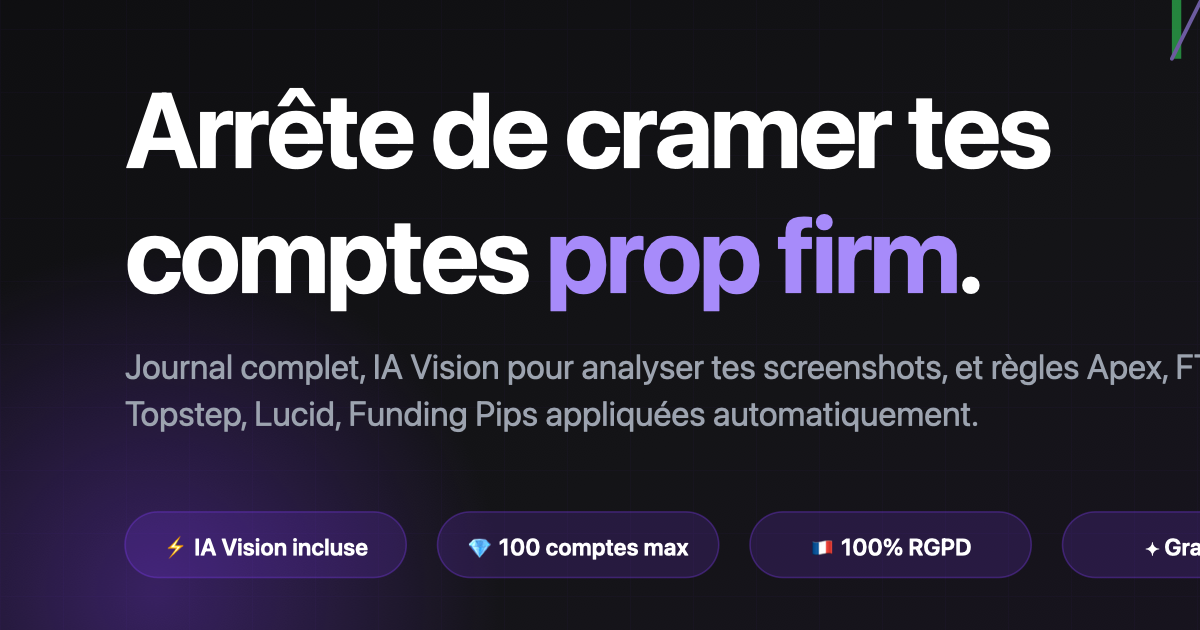
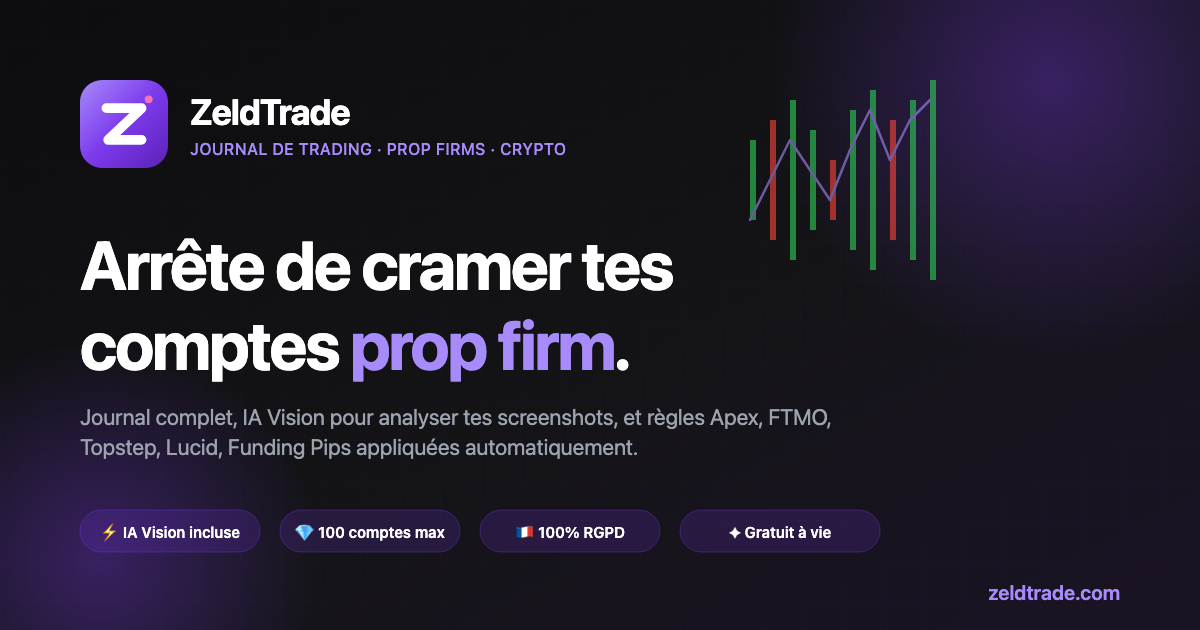
chore: release v0.9.338 — sync src/

diff --git a/src/app.html b/src/app.html
@@ -24,9 +24,9 @@
   <meta http-equiv="Pragma" content="no-cache">
 
   <title>ZeldTrade — Journal de trading pour traders en prop firm</title>
-  <link rel="icon" href="/favicon.ico" sizes="any">
-  <link rel="icon" type="image/svg+xml" href="/favicon.svg">
-  <link rel="apple-touch-icon" href="/apple-touch-icon.png">
+  <link rel="icon" href="/favicon.ico?v=0.9.338" sizes="any">
+  <link rel="icon" type="image/svg+xml" href="/favicon.svg?v=0.9.338">
+  <link rel="apple-touch-icon" href="/apple-touch-icon.png?v=0.9.338">
   <meta name="description" content="Journal de trading pensé pour les traders en prop firm. Suivi de performance, gestion des règles d'évaluation Apex, Topstep, FTMO, Lucid, calculatrice de position. Sans Excel.">
   <meta name="keywords" content="journal de trading, prop firm, Apex, Topstep, FTMO, Lucid, day trading, S&P 500, performance trading, calculatrice position">
   <meta name="author" content="ZeldTrade">
@@ -47,10 +47,10 @@
 
   <link rel="preconnect" href="https://fonts.googleapis.com">
   <link href="https://fonts.googleapis.com/css2?family=Geist+Mono:wght@300;400;500;600&family=Geist:wght@300;400;500;600&display=swap" rel="stylesheet">
-  <link rel="stylesheet" href="css/style.css?v=0.9.337">
+  <link rel="stylesheet" href="css/style.css?v=0.9.338">
   <!-- v0.9.255 : theme manager en TÊTE du head — applique data-theme="light"
        AVANT le parsing du body pour éviter le FOUC (flash dark → light). -->
-  <script src="js/theme.js?v=0.9.337"></script>
+  <script src="js/theme.js?v=0.9.338"></script>
 </head>
 <body>
 
@@ -70,7 +70,7 @@
         <div class="login-logo">
           <div class="logo-mark login-logo-mark">
             <svg viewBox="0 0 100 100" xmlns="http://www.w3.org/2000/svg" aria-hidden="true">
-              <path d="M28 28 L72 28 L72 38 L41 65 L72 65 L72 72 L28 72 L28 62 L59 35 L28 35 Z" fill="#fff"/>
+              <path d="M30 32 L70 32 L32 68 L70 68" fill="none" stroke="#fff" stroke-width="11" stroke-linecap="round" stroke-linejoin="round"/>
               <circle cx="78" cy="22" r="4.5" fill="#f472b6"/>
             </svg>
           </div>
@@ -1061,32 +1061,32 @@
   <script src="https://www.gstatic.com/firebasejs/9.23.0/firebase-firestore-compat.js" integrity="sha384-XMIl1b2Ez9tKAM0R5q67/iLdfnlLBl9kfo40X5WMtCPb+3OLplrjnOxZTYCg1SKY" crossorigin="anonymous"></script>
   <script src="https://www.gstatic.com/firebasejs/9.23.0/firebase-functions-compat.js" integrity="sha384-Cn425IPPqYFT0+lUg71+39dOh8zj/Ebpl97FkjUqrd+P37HLlysOYDvdw+N7tPuj" crossorigin="anonymous"></script>
   <script src="https://www.gstatic.com/firebasejs/9.23.0/firebase-storage-compat.js" integrity="sha384-oFrOL1TiREYNET0lsYF3LjQuyi2gL7vhjH1X8vFr+umcmzAdPELopeSgbcrv4uRm" crossorigin="anonymous"></script>
-  <script src="js/firebase.js?v=0.9.337"></script>
+  <script src="js/firebase.js?v=0.9.338"></script>
 
   <script src="https://cdnjs.cloudflare.com/ajax/libs/Chart.js/4.4.1/chart.umd.min.js" integrity="sha384-bs/nf9FbdNouRbMiFcrcZfLXYPKiPaGVGplVbv7dLGECccEXDW+S3zjqSKR5ZEaD" crossorigin="anonymous" defer></script>
-  <script src="js/i18n.js?v=0.9.337"></script>
-  <script src="js/icons.js?v=0.9.337"></script>
-  <script src="js/analytics.js?v=0.9.337"></script>
+  <script src="js/i18n.js?v=0.9.338"></script>
+  <script src="js/icons.js?v=0.9.338"></script>
+  <script src="js/analytics.js?v=0.9.338"></script>
   <script src="js/lib/jspdf.umd.min.js?v=3.0.1" defer></script>
-  <script src="js/auth.js?v=0.9.337"></script>
-  <script src="js/store.js?v=0.9.337"></script>
-  <script src="js/calc.js?v=0.9.337"></script>
-  <script src="js/modal.js?v=0.9.337"></script>
-  <script src="js/ui.js?v=0.9.337"></script>
-  <script src="js/pages/dashboard.js?v=0.9.337"></script>
-  <script src="js/pages/analytics.js?v=0.9.337"></script>
-  <script src="js/pages/export-pdf.js?v=0.9.337"></script>
-  <script src="js/pages/settings.js?v=0.9.337"></script>
-  <script src="js/pages/goals.js?v=0.9.337"></script>
-  <script src="js/pages/calendar.js?v=0.9.337"></script>
-  <script src="js/pages/micro.js?v=0.9.337"></script>
-  <script src="js/pages/outils.js?v=0.9.337"></script>
-  <script src="js/pages/offers.js?v=0.9.337"></script>
-  <script src="js/contact.js?v=0.9.337"></script>
-  <script src="js/app.js?v=0.9.337"></script>
-  <script src="js/tour.js?v=0.9.337"></script>
+  <script src="js/auth.js?v=0.9.338"></script>
+  <script src="js/store.js?v=0.9.338"></script>
+  <script src="js/calc.js?v=0.9.338"></script>
+  <script src="js/modal.js?v=0.9.338"></script>
+  <script src="js/ui.js?v=0.9.338"></script>
+  <script src="js/pages/dashboard.js?v=0.9.338"></script>
+  <script src="js/pages/analytics.js?v=0.9.338"></script>
+  <script src="js/pages/export-pdf.js?v=0.9.338"></script>
+  <script src="js/pages/settings.js?v=0.9.338"></script>
+  <script src="js/pages/goals.js?v=0.9.338"></script>
+  <script src="js/pages/calendar.js?v=0.9.338"></script>
+  <script src="js/pages/micro.js?v=0.9.338"></script>
+  <script src="js/pages/outils.js?v=0.9.338"></script>
+  <script src="js/pages/offers.js?v=0.9.338"></script>
+  <script src="js/contact.js?v=0.9.338"></script>
+  <script src="js/app.js?v=0.9.338"></script>
+  <script src="js/tour.js?v=0.9.338"></script>
 
-  <script src="js/app-bootstrap.js?v=0.9.337"></script>
+  <script src="js/app-bootstrap.js?v=0.9.338"></script>
 
   <!-- hCaptcha (anti-bot pour les formulaires register et contact)
        NOTE: pas de SRI car hCaptcha sert un bundle qui varie selon le User-Agent

diff --git a/src/index.html b/src/index.html
@@ -8,9 +8,9 @@
 
   <!-- Favicon (v0.9.337) : .ico = repli raster que Google Search/anciens navigateurs
        indexent (sinon ils affichent le globe générique) ; SVG pour le moderne ; PNG iOS -->
-  <link rel="icon" href="/favicon.ico" sizes="any">
-  <link rel="icon" type="image/svg+xml" href="/favicon.svg">
-  <link rel="apple-touch-icon" href="/apple-touch-icon.png">
+  <link rel="icon" href="/favicon.ico?v=0.9.338" sizes="any">
+  <link rel="icon" type="image/svg+xml" href="/favicon.svg?v=0.9.338">
+  <link rel="apple-touch-icon" href="/apple-touch-icon.png?v=0.9.338">
 
   <!-- Google Search Console verification -->
   <meta name="google-site-verification" content="IATcfjbZzBPV-3C6XqrgB860ldwwGT5tHFV_L9-z_q4">
@@ -26,7 +26,7 @@
   <meta property="og:title" content="ZeldTrade · Journal de trading prop firm, crypto et fonds propres">
   <meta property="og:description" content="Journal de trading français spécialisé prop firms (Apex, FTMO, Topstep, Lucid, Funding Pips) + crypto (Binance, Coinbase) et fonds propres. IA Vision, multi-comptes, RGPD natif.">
   <meta property="og:url" content="https://zeldtrade.com/">
-  <meta property="og:image" content="https://zeldtrade.com/og-image.png?v=2">
+  <meta property="og:image" content="https://zeldtrade.com/og-image.png?v=3">
   <meta property="og:image:type" content="image/png">
   <meta property="og:image:width" content="1200">
   <meta property="og:image:height" content="630">
@@ -34,7 +34,7 @@
   <meta name="twitter:card" content="summary_large_image">
   <meta name="twitter:title" content="ZeldTrade · Journal de trading prop firm, crypto et fonds propres">
   <meta name="twitter:description" content="Spécialisé prop firms (Apex, FTMO, Topstep, Lucid, FP) + crypto et fonds propres. IA Vision, multi-comptes.">
-  <meta name="twitter:image" content="https://zeldtrade.com/og-image.png?v=2">
+  <meta name="twitter:image" content="https://zeldtrade.com/og-image.png?v=3">
   <meta name="twitter:image:alt" content="ZeldTrade — Journal de trading prop firm avec IA Vision">
 
   <!-- SEO -->
@@ -2620,7 +2620,7 @@
       <a href="/" class="nav-brand">
         <span class="nav-brand-icon" aria-hidden="true">
           <svg width="18" height="18" viewBox="0 0 100 100" xmlns="http://www.w3.org/2000/svg">
-            <path d="M28 28 L72 28 L72 38 L41 65 L72 65 L72 72 L28 72 L28 62 L59 35 L28 35 Z" fill="#fff"/>
+            <path d="M30 32 L70 32 L32 68 L70 68" fill="none" stroke="#fff" stroke-width="11" stroke-linecap="round" stroke-linejoin="round"/>
             <circle cx="78" cy="22" r="4.5" fill="#f472b6"/>
           </svg>
         </span>
@@ -3042,7 +3042,7 @@
                 </linearGradient>
               </defs>
               <rect width="100" height="100" rx="22" fill="url(#demoLogoBg)"/>
-              <path d="M28 28 L72 28 L72 38 L41 65 L72 65 L72 72 L28 72 L28 62 L59 35 L28 35 Z" fill="#fff"/>
+              <path d="M30 32 L70 32 L32 68 L70 68" fill="none" stroke="#fff" stroke-width="11" stroke-linecap="round" stroke-linejoin="round"/>
               <circle cx="78" cy="22" r="4.5" fill="#f472b6"/>
             </svg>
           </div>

diff --git a/src/updates.html b/src/updates.html
@@ -16,15 +16,16 @@
     form-action 'self';
     frame-ancestors 'none';
     object-src  'none';">
-  <link rel="icon" type="image/svg+xml" href="/favicon.svg">
-  <link rel="apple-touch-icon" href="/favicon.svg">
+  <link rel="icon" href="/favicon.ico?v=0.9.338" sizes="any">
+  <link rel="icon" type="image/svg+xml" href="/favicon.svg?v=0.9.338">
+  <link rel="apple-touch-icon" href="/apple-touch-icon.png?v=0.9.338">
   <link rel="canonical" href="https://zeldtrade.com/updates">
   <meta property="og:type" content="website">
   <meta property="og:site_name" content="ZeldTrade">
   <meta property="og:title" content="Nouveautés ZeldTrade — toutes les mises à jour">
   <meta property="og:description" content="Suis toutes les améliorations de ZeldTrade. Rejoins le Discord et la newsletter pour ne rien rater.">
   <meta property="og:url" content="https://zeldtrade.com/updates">
-  <meta property="og:image" content="https://zeldtrade.com/og-image.png?v=2">
+  <meta property="og:image" content="https://zeldtrade.com/og-image.png?v=3">
   <meta name="robots" content="index, follow">
   <title>Nouveautés — ZeldTrade</title>
   <style>

diff --git a/src/js/pages/changelog.js b/src/js/pages/changelog.js
@@ -5,6 +5,17 @@ const Changelog = (() => {
 
   const ENTRIES = [
     {
+      version: '0.9.338',
+      date: '2026-05-24',
+      time: '20:30',
+      tags: ['ui'],
+      title: 'Nouveau logo ZeldTrade unifié partout',
+      titleEn: 'New unified ZeldTrade logo everywhere',
+      items: [
+        { type: 'ui', text: 'Le logo officiel (Z stylisé + point rose) est désormais identique partout : favicon (onglet + recherche Google), barre de navigation, écran de connexion, écran de chargement, et image de partage sur les réseaux. Fini les deux variantes du Z qui cohabitaient.', textEn: 'The official logo (stylized Z + pink dot) is now identical everywhere: favicon (browser tab + Google search), navigation bar, login screen, loading screen, and social-share image. No more two coexisting Z variants.' },
+      ],
+    },
+    {
       version: '0.9.337',
       date: '2026-05-24',
       time: '20:10',

diff --git a/src/privacy.html b/src/privacy.html
@@ -18,8 +18,9 @@
   <meta name="referrer" content="strict-origin-when-cross-origin">
   <meta http-equiv="Permissions-Policy" content="camera=(), microphone=(), geolocation=(), payment=(), usb=(), bluetooth=(), accelerometer=(), gyroscope=(), magnetometer=(), midi=(), serial=(), interest-cohort=()">
   <title>Politique de confidentialité — ZeldTrade</title>
-  <link rel="icon" type="image/svg+xml" href="/favicon.svg">
-  <link rel="apple-touch-icon" href="/favicon.svg">
+  <link rel="icon" href="/favicon.ico?v=0.9.338" sizes="any">
+  <link rel="icon" type="image/svg+xml" href="/favicon.svg?v=0.9.338">
+  <link rel="apple-touch-icon" href="/apple-touch-icon.png?v=0.9.338">
   <link rel="preconnect" href="https://fonts.googleapis.com">
   <link href="https://fonts.googleapis.com/css2?family=Geist:wght@300;400;500;600&display=swap" rel="stylesheet">
   <style>

diff --git a/src/legal.html b/src/legal.html
@@ -18,8 +18,9 @@
   <meta name="referrer" content="strict-origin-when-cross-origin">
   <meta http-equiv="Permissions-Policy" content="camera=(), microphone=(), geolocation=(), payment=(), usb=(), bluetooth=(), accelerometer=(), gyroscope=(), magnetometer=(), midi=(), serial=(), interest-cohort=()">
   <title>Mentions légales — ZeldTrade</title>
-  <link rel="icon" type="image/svg+xml" href="/favicon.svg">
-  <link rel="apple-touch-icon" href="/favicon.svg">
+  <link rel="icon" href="/favicon.ico?v=0.9.338" sizes="any">
+  <link rel="icon" type="image/svg+xml" href="/favicon.svg?v=0.9.338">
+  <link rel="apple-touch-icon" href="/apple-touch-icon.png?v=0.9.338">
   <link rel="preconnect" href="https://fonts.googleapis.com">
   <link href="https://fonts.googleapis.com/css2?family=Geist:wght@300;400;500;600&display=swap" rel="stylesheet">
   <style>

diff --git a/src/payment.html b/src/payment.html
@@ -20,8 +20,9 @@
   <meta name="referrer" content="strict-origin-when-cross-origin">
   <meta http-equiv="Permissions-Policy" content="camera=(), microphone=(), geolocation=(), payment=(), usb=(), bluetooth=(), accelerometer=(), gyroscope=(), magnetometer=(), midi=(), serial=(), interest-cohort=()">
   <title>Payment — ZeldTrade</title>
-  <link rel="icon" type="image/svg+xml" href="/favicon.svg">
-  <link rel="apple-touch-icon" href="/favicon.svg">
+  <link rel="icon" href="/favicon.ico?v=0.9.338" sizes="any">
+  <link rel="icon" type="image/svg+xml" href="/favicon.svg?v=0.9.338">
+  <link rel="apple-touch-icon" href="/apple-touch-icon.png?v=0.9.338">
   <link rel="preconnect" href="https://fonts.googleapis.com">
   <link href="https://fonts.googleapis.com/css2?family=Geist:wght@300;400;500;600;700;800&display=swap" rel="stylesheet">
   <style>

diff --git a/src/cgu.html b/src/cgu.html
@@ -18,8 +18,9 @@
   <meta name="referrer" content="strict-origin-when-cross-origin">
   <meta http-equiv="Permissions-Policy" content="camera=(), microphone=(), geolocation=(), payment=(), usb=(), bluetooth=(), accelerometer=(), gyroscope=(), magnetometer=(), midi=(), serial=(), interest-cohort=()">
   <title>CGU / CGV — ZeldTrade</title>
-  <link rel="icon" type="image/svg+xml" href="/favicon.svg">
-  <link rel="apple-touch-icon" href="/favicon.svg">
+  <link rel="icon" href="/favicon.ico?v=0.9.338" sizes="any">
+  <link rel="icon" type="image/svg+xml" href="/favicon.svg?v=0.9.338">
+  <link rel="apple-touch-icon" href="/apple-touch-icon.png?v=0.9.338">
   <link rel="preconnect" href="https://fonts.googleapis.com">
   <link href="https://fonts.googleapis.com/css2?family=Geist:wght@300;400;500;600&display=swap" rel="stylesheet">
   <style>

diff --git a/src/admin.html b/src/admin.html
@@ -22,8 +22,9 @@
   <meta name="format-detection" content="telephone=no, date=no, address=no, email=no">
   <meta http-equiv="Cache-Control" content="no-cache, no-store, must-revalidate">
   <title>ZeldTrade Admin</title>
-  <link rel="icon" type="image/svg+xml" href="/favicon.svg">
-  <link rel="apple-touch-icon" href="/favicon.svg">
+  <link rel="icon" href="/favicon.ico?v=0.9.338" sizes="any">
+  <link rel="icon" type="image/svg+xml" href="/favicon.svg?v=0.9.338">
+  <link rel="apple-touch-icon" href="/apple-touch-icon.png?v=0.9.338">
   <style>
     *, *::before, *::after { box-sizing: border-box; margin: 0; padding: 0; }
 
